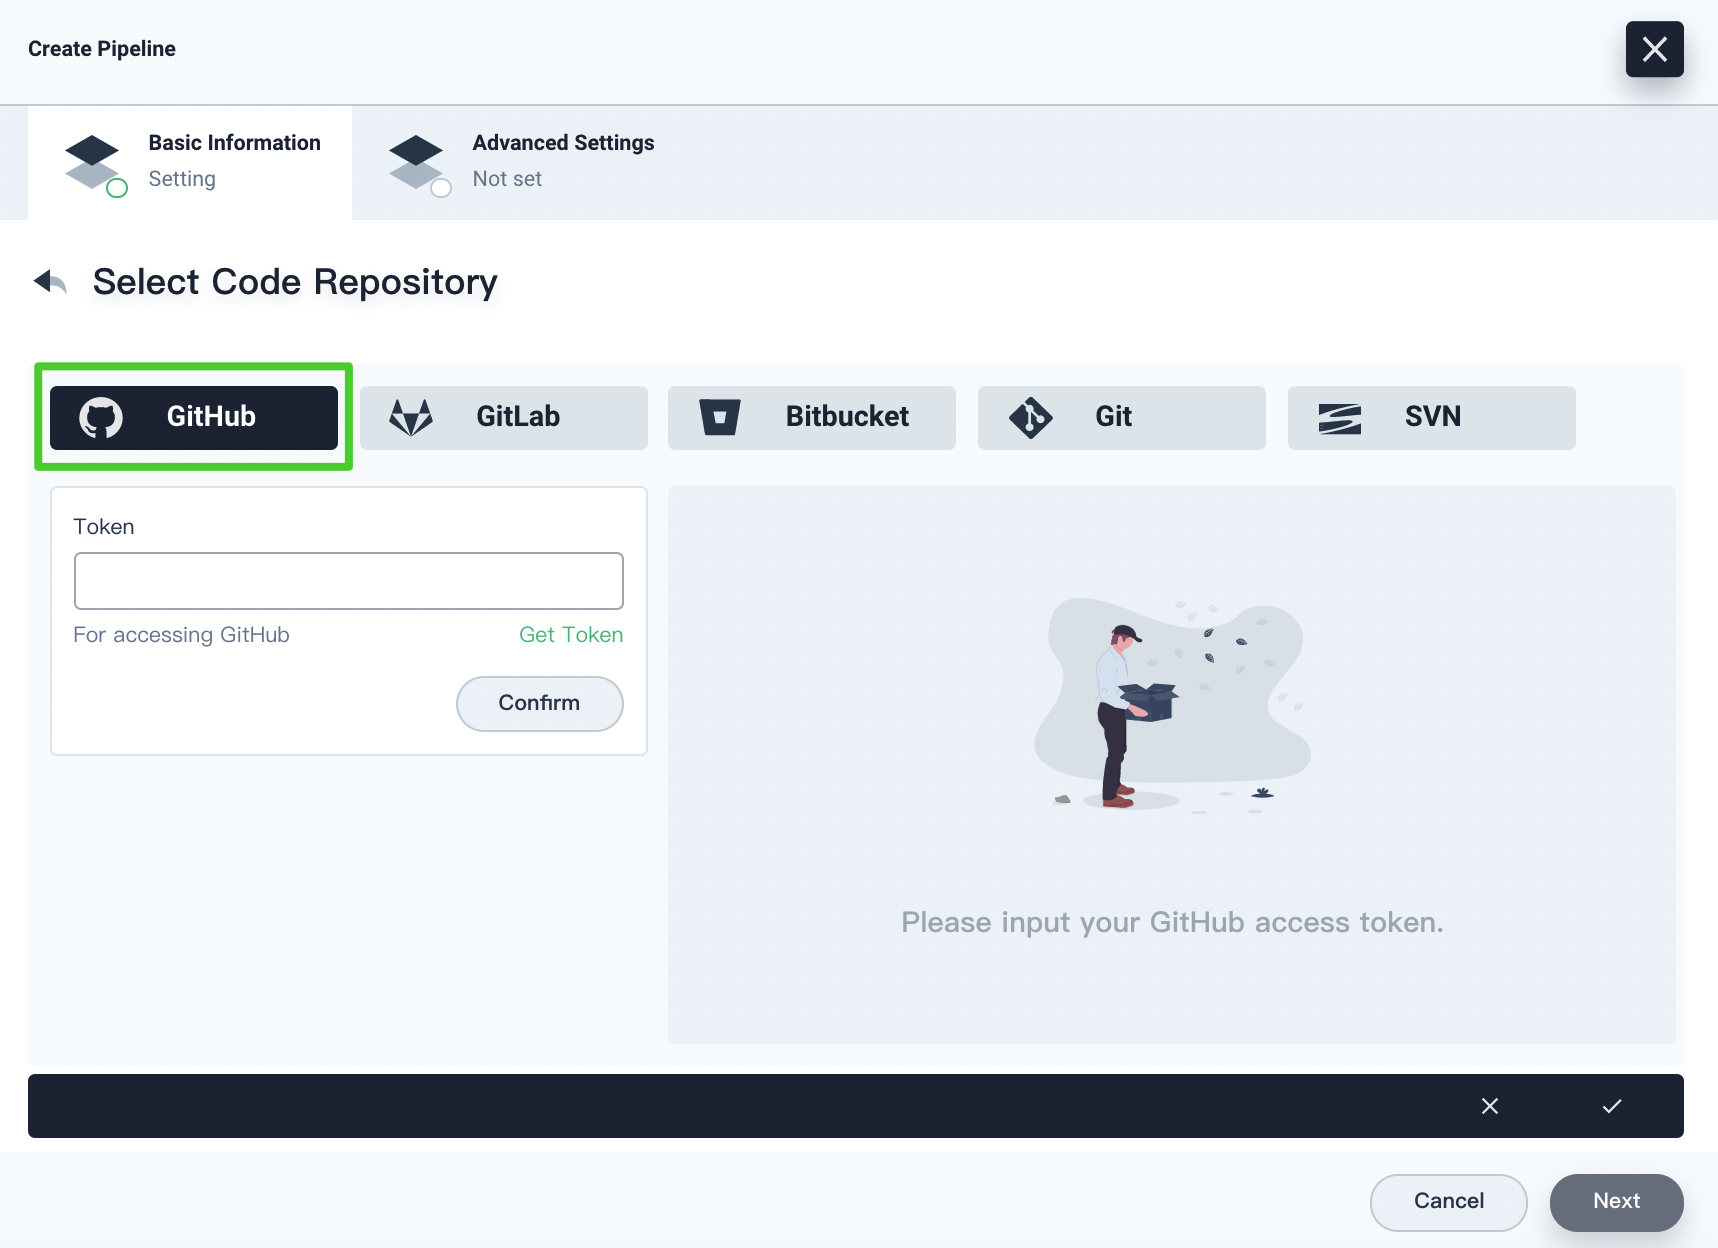
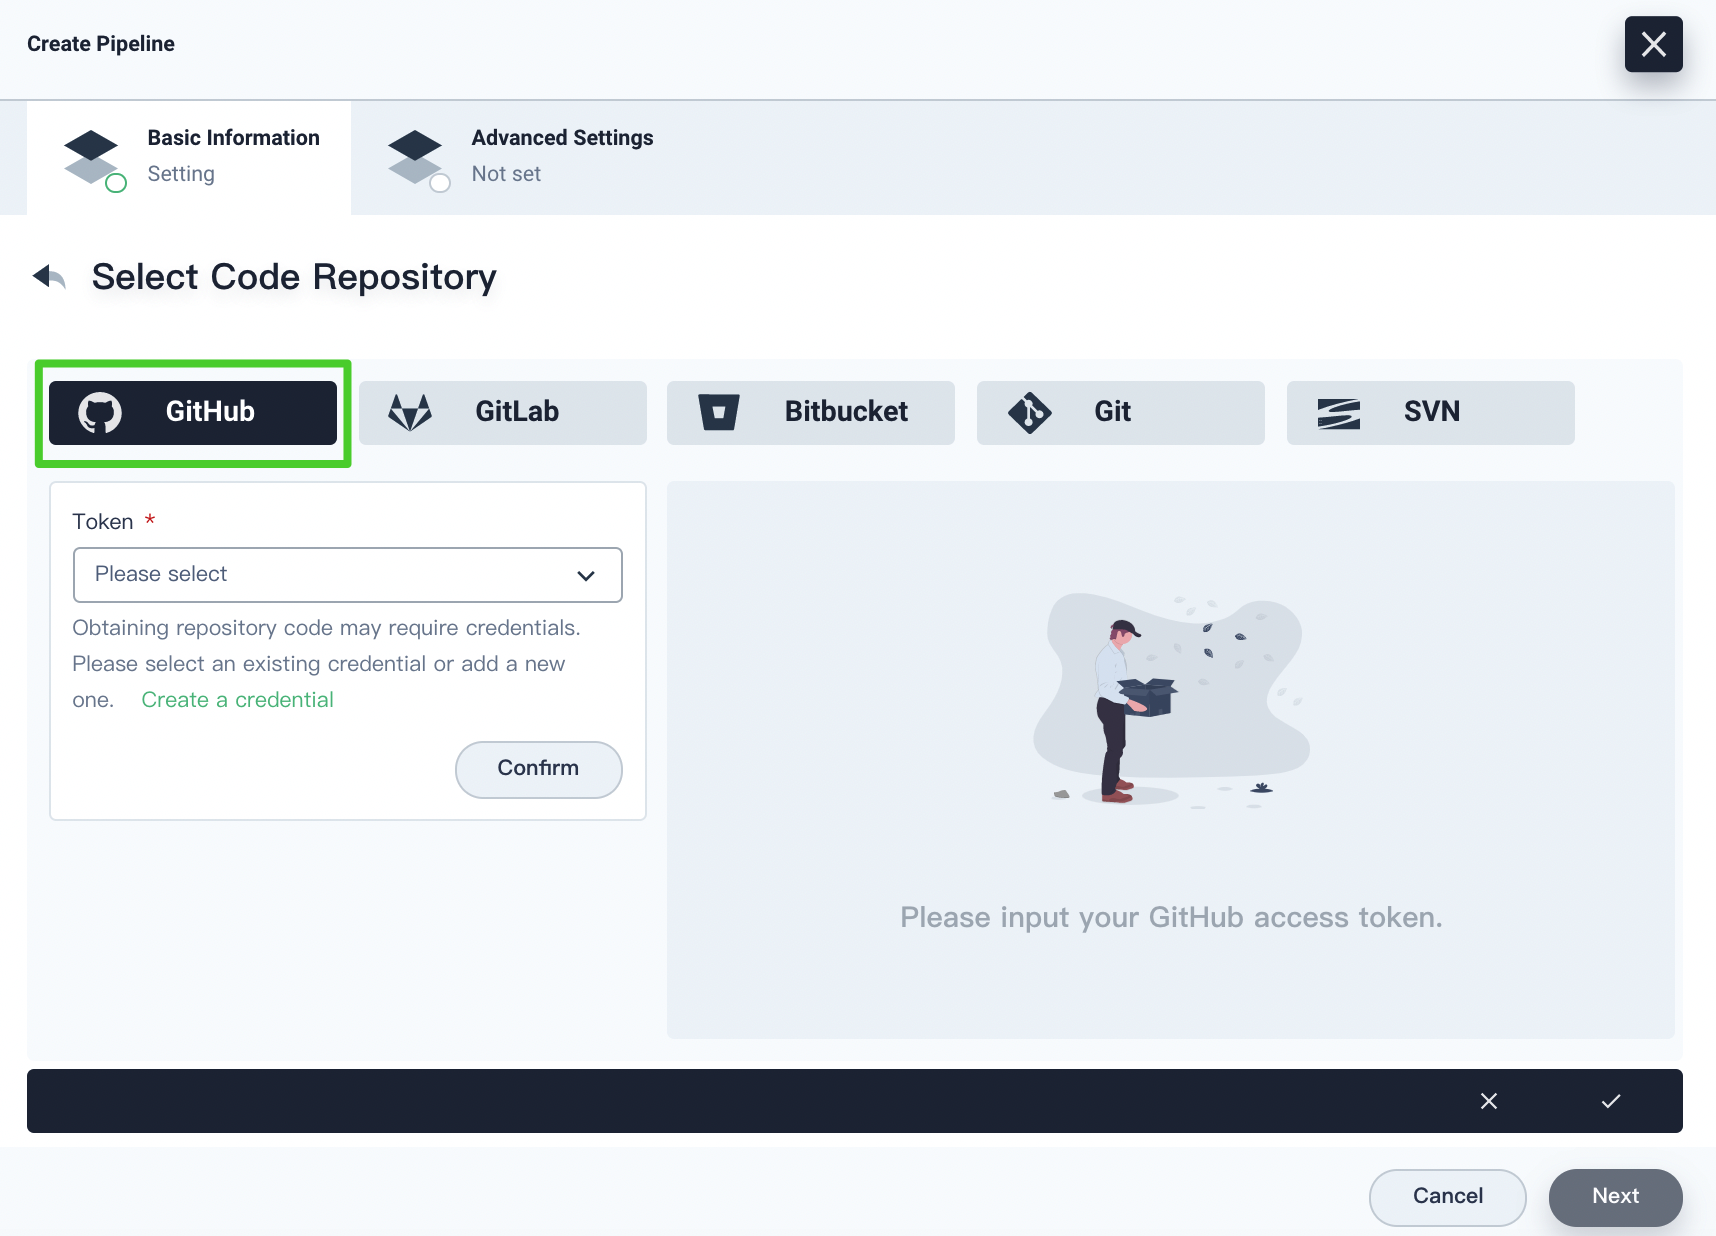
Update Doc: Pipeline Settings

diff --git a/content/en/docs/devops-user-guide/how-to-use/pipeline-settings.md b/content/en/docs/devops-user-guide/how-to-use/pipeline-settings.md
@@ -35,7 +35,7 @@ On the **Basic Information** tab, you can customize the following information:
 
   ![code-source-github](/images/docs/devops-user-guide/using-devops/pipeline-settings/code-source-github.png)
 
-  If you select **GitHub**, you have to specify the token for accessing GitHub. You can click **Get Token** to generate a new token on GitHub. Click **Confirm** after entering the token and you can view your repository on the right. Click the **√** icon after you finish all operations.
+  If you select **GitHub**, you have to specify the token for accessing GitHub. If you have created a credential with your GitHub token in advance, you can select it from the drop-down list, or you can click **Create a credential** to create a new one. Click **Confirm** after selecting the token and you can view your repository on the right. Click the **√** icon after you finish all operations.
 
   {{</ tab >}}
 

diff --git a/content/zh/docs/devops-user-guide/how-to-use/pipeline-settings.md b/content/zh/docs/devops-user-guide/how-to-use/pipeline-settings.md
@@ -35,7 +35,7 @@ On the **Basic Information** tab, you can customize the following information:
 
   ![code-source-github](/images/docs/devops-user-guide/using-devops/pipeline-settings/code-source-github.png)
 
-  If you select **GitHub**, you have to specify the token for accessing GitHub. You can click **Get Token** to generate a new token on GitHub. Click **Confirm** after entering the token and you can view your repository on the right. Click the **√** icon after you finish all operations.
+  If you select **GitHub**, you have to specify the token for accessing GitHub. If you have created a credential with your GitHub token in advance, you can select it from the drop-down list, or you can click **Create a credential** to create a new one. Click **Confirm** after selecting the token and you can view your repository on the right. Click the **√** icon after you finish all operations.
 
   {{</ tab >}}
 
